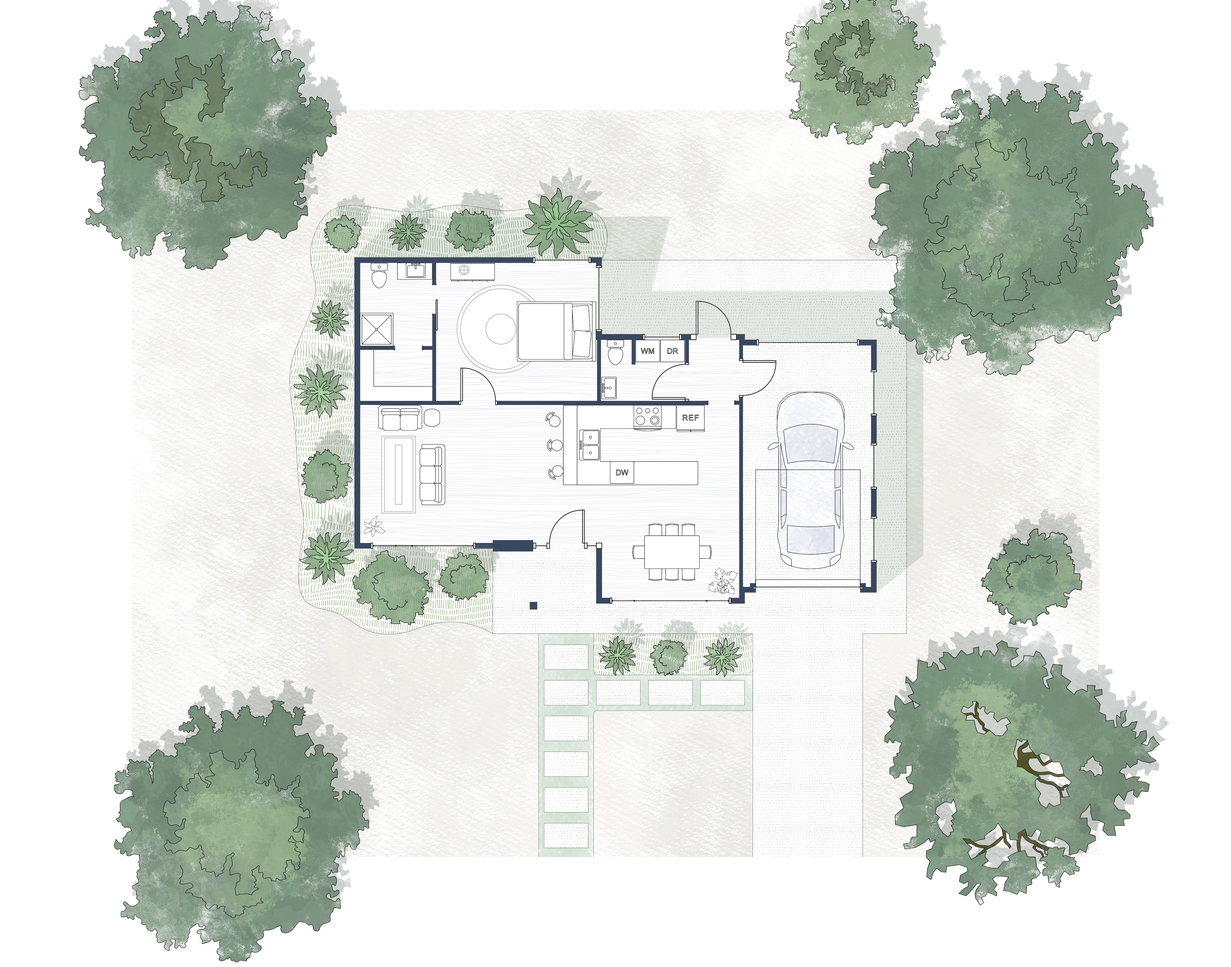
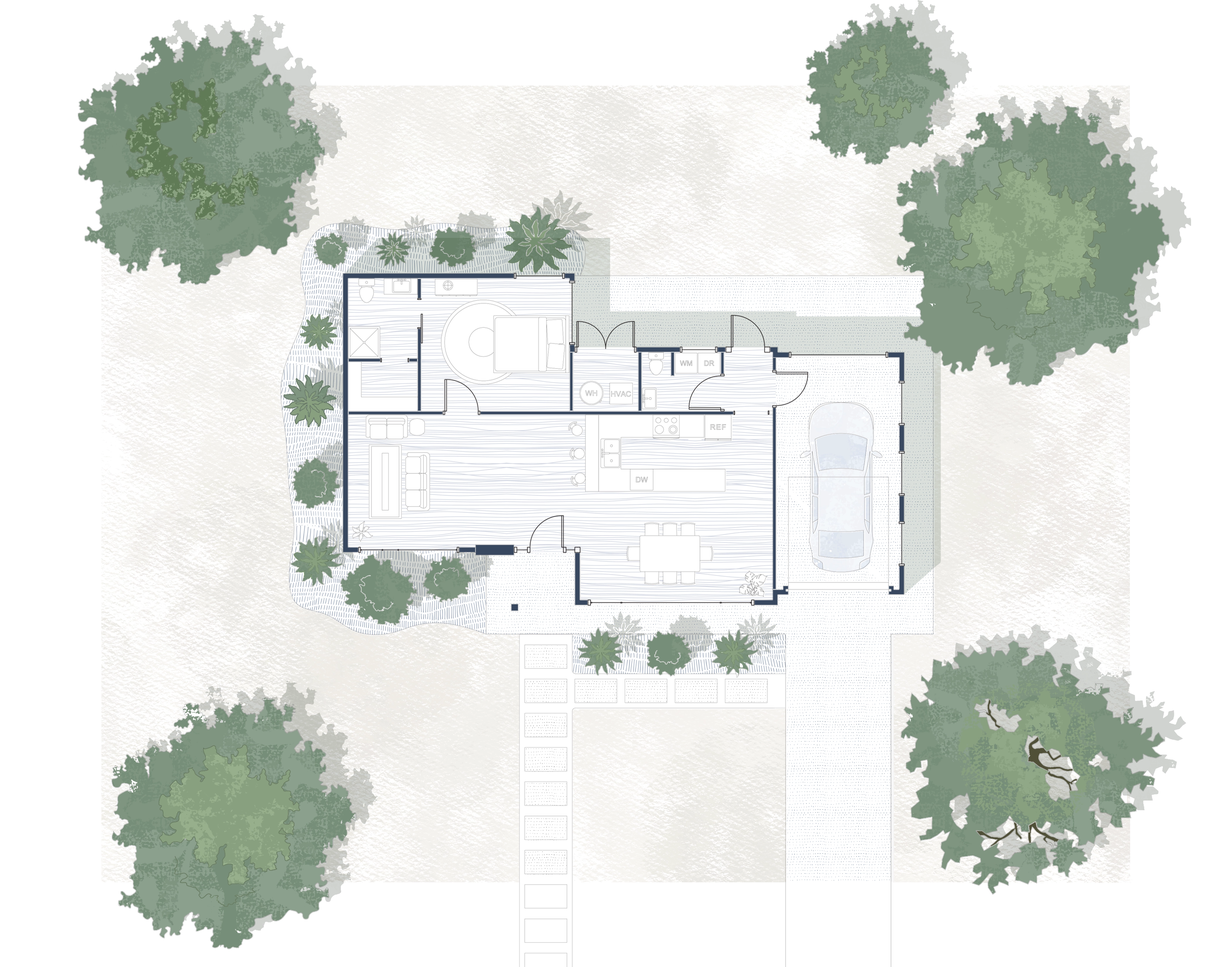
updated site

diff --git a/Mini-Modern.html b/Mini-Modern.html
@@ -4,7 +4,7 @@
 <head>
   <meta charset="utf-8">
   <meta content="width=device-width, initial-scale=1.0" name="viewport">
-  <title>Small Luxury</title>
+  <title>Mini Modern</title>
   <meta name="description" content="">
   <meta name="keywords" content="">
 
@@ -77,7 +77,7 @@
         <div class="container">
           <div class="row d-flex justify-content-center text-center">
             <div class="col-lg-8">
-              <h1>Small Luxuries</h1>
+              <h1>Mini Modern</h1>
               <p class="mb-0">Compact yet comfortable luxury home with modern features</p>
               <!-- <a href="contact.html" class="cta-btn">Available for Hire<br></a> -->
             </div>
@@ -88,7 +88,7 @@
         <div class="container">
           <ol>
             <li><a href="index.html">Home</a></li>
-            <li class="current">Small Luxuries</li>
+            <li class="current">Mini Modern</li>
           </ol>
         </div>
       </nav>

diff --git a/Independent Projects.html b/Independent Projects.html
@@ -106,7 +106,7 @@
               <img src="assets\img\gallery\Modern House\render.webp" class="img-fluid" alt="">
               <div class="gallery-links d-flex align-items-center justify-content-center">
                 <!-- <a href="assets/img/gallery/gallery-4.webp" title="Gallery 4" class="glightbox preview-link"><i class="bi bi-arrows-angle-expand"></i></a> -->
-                <a href="small-luxury.html" class="details-link"><i class="bi bi-link-45deg"></i></a>
+                <a href="Mini-Modern.html" class="details-link"><i class="bi bi-link-45deg"></i></a>
               </div>
             </div>
           </div><!-- End Gallery Item -->

diff --git a/index.html b/index.html
@@ -110,7 +110,7 @@
               <img src="assets\img\gallery\Modern House\render.webp" class="img-fluid" alt="">
               <div class="gallery-links d-flex align-items-center justify-content-center">
                 <!-- <a href="assets/img/gallery/gallery-1.webp" title="Gallery 1" class="glightbox preview-link"><i class="bi bi-arrows-angle-expand"></i></a> -->
-                <a href="small-luxury.html" class="details-link"><i class="bi bi-link-45deg"></i></a>
+                <a href="Mini-Modern.html" class="details-link"><i class="bi bi-link-45deg"></i></a>
               </div>
             </div>
           </div><!-- End Gallery Item -->
